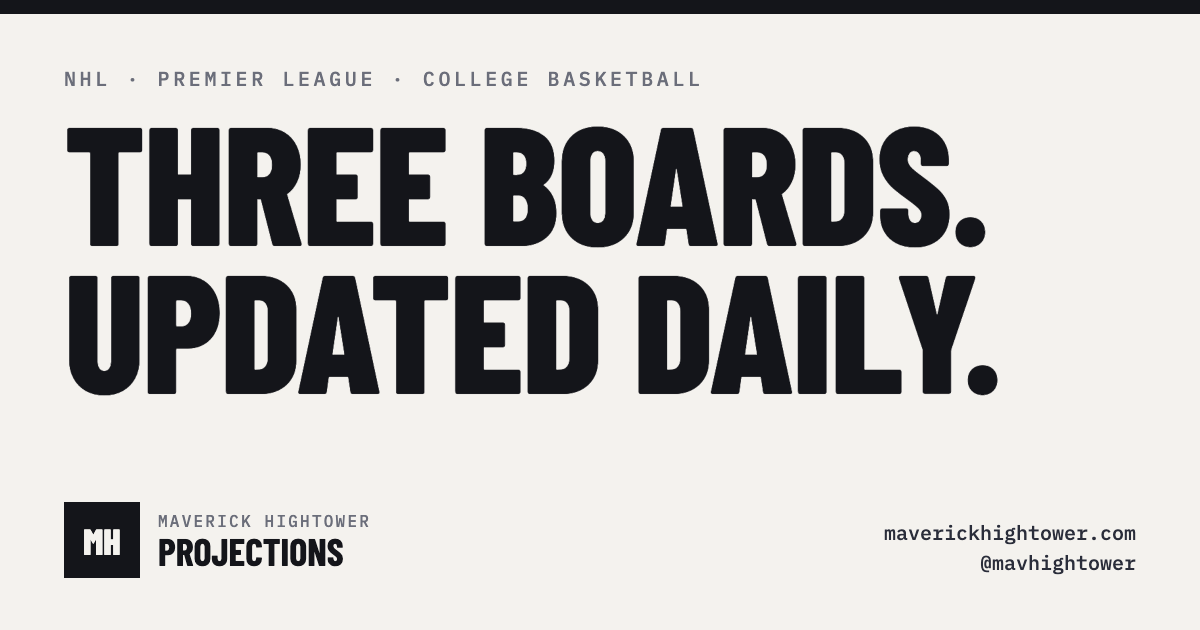
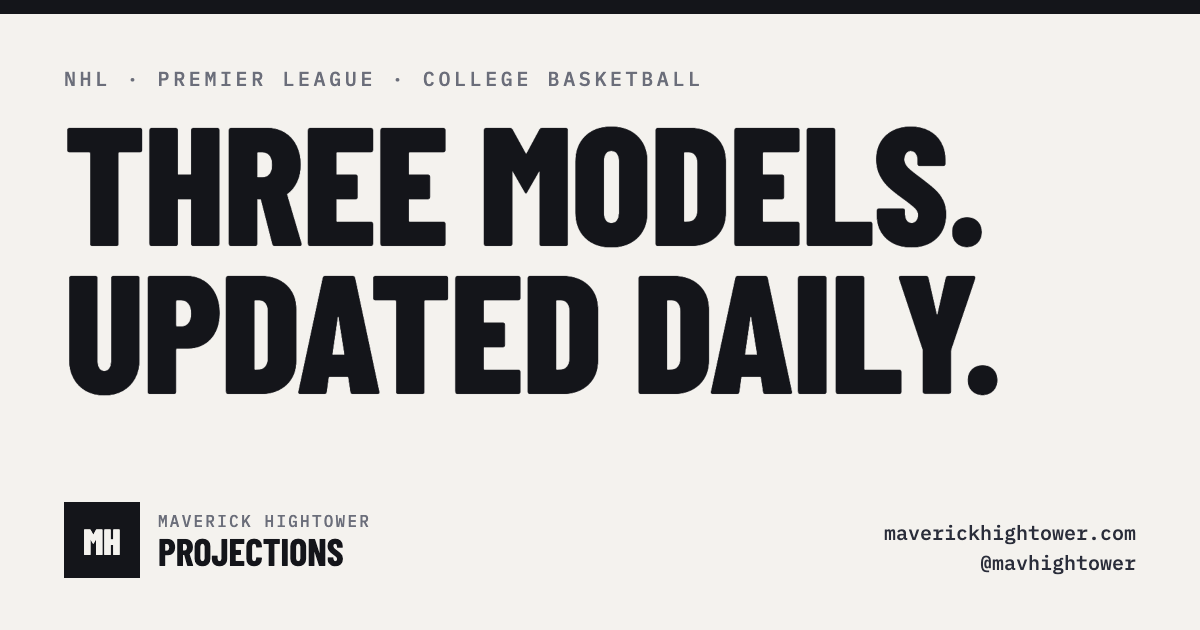
Hub: three models, a plain lede, and no results notice on a card
From the design drop. index.html: the headline reads "Three models.",
the lede is one sentence with Gamble Responsibly, and a card's subline is
shown only when a settled record exists, so a results notice ("nothing to
settle", "no final was available") never appears on the home page.
share.png regenerated at 1200x630 to match. lib/ untouched; it is shared
byte-for-byte with the three sites.

Changed region(s): [[0.4008, 0.181, 0.8325, 0.3921], [0.7708, 0.2111, 0.8017, 0.2413]]

diff --git a/index.html b/index.html
@@ -48,8 +48,8 @@ footer a{display:inline-flex;align-items:center;min-height:44px}
     </a>
     <nav aria-label="Site"><a href="about.html">About</a><a href="https://x.com/mavhightower">@mavhightower</a></nav>
   </header>
-  <h1>Three boards.<br>Updated daily.</h1>
-  <p class="lede">Model projections for NHL, Premier League and college basketball. Each board is frozen when it goes up and graded against the finals the next morning. <a href="about.html" style="text-decoration:underline;text-underline-offset:3px">How it works</a></p>
+  <h1>Three models.<br>Updated daily.</h1>
+  <p class="lede">Model projections for NHL, EPL, and NCAAM. Gamble Responsibly. <a href="about.html" style="text-decoration:underline;text-underline-offset:3px">How it works</a></p>
   <nav class="boards" id="boards" aria-label="Boards">
     <a class="board" href="https://nhl.maverickhightower.com/" data-sport="nhl"><span class="name">NHL</span><span class="head">Loading tonight's board…</span><span class="sub"></span><span class="meta"></span></a>
     <a class="board" href="https://epl.maverickhightower.com/" data-sport="epl"><span class="name">EPL</span><span class="head">Loading this week's board…</span><span class="sub"></span><span class="meta"></span></a>
@@ -68,7 +68,8 @@ footer a{display:inline-flex;align-items:center;min-height:44px}
     const line = hubLine(k, board, results);
     a.querySelector(".head").textContent = line.headline;
     a.setAttribute("aria-label", `${s.name} board: ${line.headline}`);
-    a.querySelector(".sub").textContent = line.detail || "";
+    // Only a settled record, never the results notice ("nothing to settle", "no final was available").
+    a.querySelector(".sub").textContent = results && results.games && results.games.length ? line.detail || "" : "";
     const meta = a.querySelector(".meta");
     meta.innerHTML = "";
     if (line.updated) meta.append(Object.assign(document.createElement("span"), { textContent: `Updated ${line.updated}` }));
